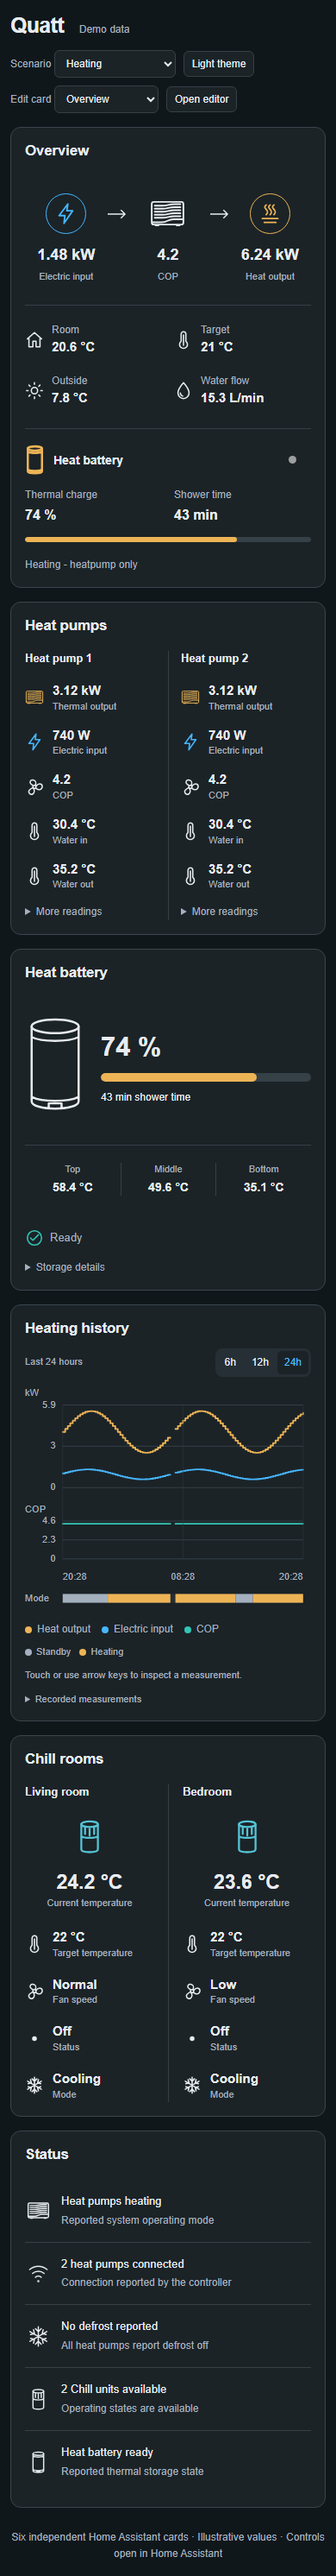
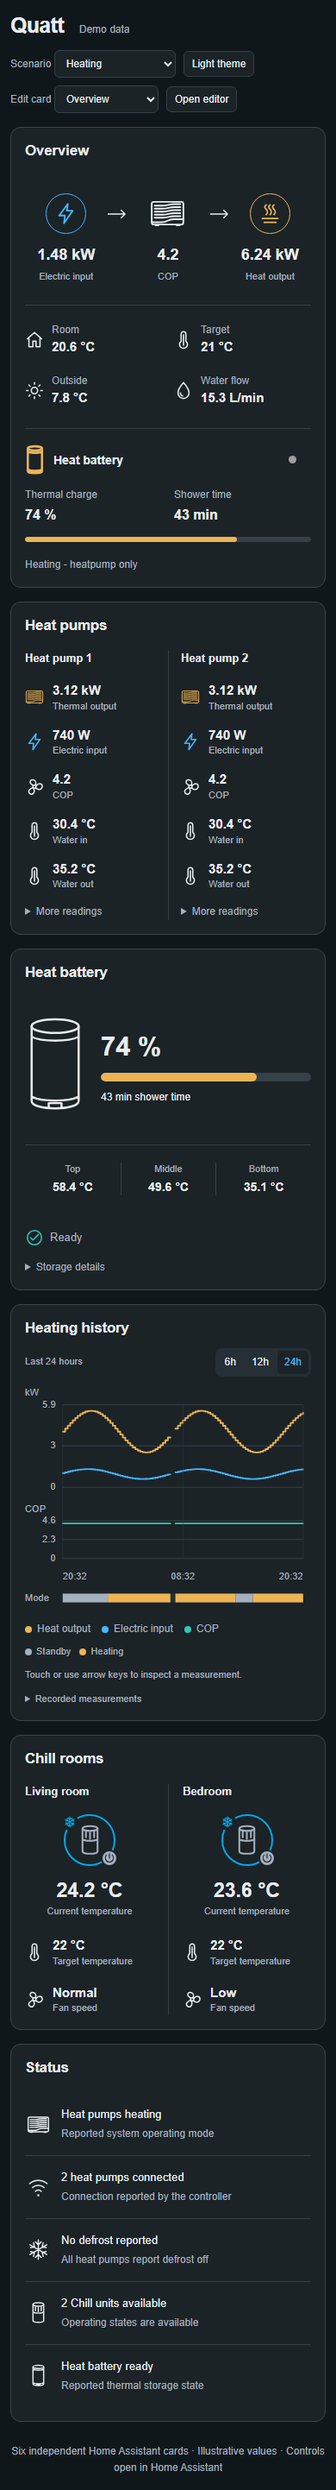
Combine Chill status and mode in the device ring

diff --git a/src/cards/chill-card.ts b/src/cards/chill-card.ts
@@ -1,30 +1,43 @@
 import { css, html, nothing } from 'lit';
 import { BaseCard } from '../base-card';
 import { icon } from '../ui';
+import { chillState } from '../data/chill-state';
 import type { QuattDevice } from '../types';
 export class QuattChillCard extends BaseCard {
   static getStubConfig() { return {type:'custom:quatt-chill-card'}; }
-  getCardSize(){return this.config?6+Math.max(0,Math.ceil(this.snapshot.chills.length/3)-1)*5:6;}
+  getCardSize(){return this.config?5+Math.max(0,Math.ceil(this.snapshot.chills.length/3)-1)*4:5;}
   static styles=[BaseCard.styles,css`
-    ha-card{min-height:410px}.rooms{display:grid;grid-template-columns:repeat(var(--columns,2),minmax(0,1fr));gap:24px 0}.room{min-width:0;border-left:1px solid var(--qc-line);padding:0 16px}.room.row-start{padding-left:0;border-left:0}.room:last-child{padding-right:0}
-    h3{font-size:13px;font-weight:600;margin:0 0 16px;overflow-wrap:anywhere}.summary{text-align:center}.unit-icon{color:var(--qc-cool);display:grid;place-items:center;width:48px;height:52px;margin:0 auto 10px;padding:5px;border:0;border-radius:8px;background:transparent}.unit-icon .icon{width:28px;height:42px;stroke-width:1.3}
+    :host{align-self:start}ha-card{min-height:0}.rooms{display:grid;grid-template-columns:repeat(var(--columns,2),minmax(0,1fr));gap:24px 0}.room{min-width:0;border-left:1px solid var(--qc-line);padding:0 16px}.room.row-start{padding-left:0;border-left:0}.room:last-child{padding-right:0}
+    h3{font-size:13px;font-weight:600;margin:0 0 16px;overflow-wrap:anywhere}.summary{text-align:center}
+    .unit-icon{--ring-color:var(--qc-secondary);color:var(--ring-color);position:relative;display:grid;place-items:center;width:60px;height:60px;margin:0 auto 12px;padding:7px;border:2.5px solid var(--ring-color);border-radius:50%;background:transparent}
+    .unit-icon.cooling{--ring-color:var(--quatt-chill-cooling-color,#00a9ed)}.unit-icon.heating{--ring-color:var(--quatt-chill-heating-color,#e34d59)}
+    .unit-icon>.icon{width:25px;height:38px;stroke-width:1.3}.unit-icon.off>.icon,.unit-icon.idle>.icon,.unit-icon.unknown>.icon{color:var(--qc-secondary)}
+    .icon-badge{position:absolute;display:grid;place-items:center;width:20px;height:20px;border:2px solid var(--ha-card-background,var(--card-background-color,#fff));border-radius:50%;background:var(--ha-card-background,var(--card-background-color,#fff))}
+    .icon-badge .icon{width:14px;height:14px;stroke-width:2}.mode-badge{left:-5px;top:-3px}.status-badge{right:-5px;bottom:-3px;background:var(--ring-color);color:var(--ha-card-background,var(--card-background-color,#fff))}
+    .off .status-badge,.idle .status-badge,.unknown .status-badge{background:var(--qc-secondary)}.offline .status-badge{background:var(--qc-warning)}
+    button.unit-icon:disabled{opacity:1}.icon-description{position:absolute;width:1px;height:1px;overflow:hidden;clip-path:inset(50%);white-space:nowrap}
     button.unit-icon:hover:not(:disabled){background:var(--qc-subtle)}
     .temperature .value{font-size:23px}.temperature>.label{display:block;font-size:11px}.fields{display:grid;gap:17px;margin-top:20px}.warning{margin-top:12px;color:var(--qc-warning);font-size:12px}
     .rooms.stacked,.rooms.compact{grid-template-columns:1fr;gap:0}.stacked .room,.compact .room{padding:16px 0;border-left:0;border-top:1px solid var(--qc-line)}.stacked .room:first-child,.compact .room:first-child{padding-top:0;border-top:0}
     .stacked .fields,.compact .fields{grid-template-columns:repeat(2,minmax(0,1fr))}
-    .compact .temperature .value{font-size:20px}.compact .device-field>.icon{display:none}.compact .fields{grid-template-columns:repeat(4,minmax(0,1fr));gap:8px}
+    .compact .temperature .value{font-size:20px}.compact .device-field>.icon{display:none}.compact .fields{grid-template-columns:repeat(2,minmax(0,1fr));gap:8px}
     .rooms.three .device-field>.icon{display:none}.rooms.three .room{padding:0 9px}.rooms.three .row-start{padding-left:0}.rooms.three .temperature .value{font-size:19px}
     .rooms.single.columns h3{text-align:center}.rooms.single.columns .summary{margin:20px 0 26px}.rooms.single.columns .fields{grid-template-columns:repeat(2,minmax(0,1fr));gap:22px 18px}
     ha-card.single-device{min-height:0}ha-card.custom-fields{min-height:0}.fields:empty{display:none}
     @container(max-width:350px){.room{padding:0 10px}.device-field{gap:8px}.device-field .value{font-size:14px}.device-field .label{font-size:10px}.temperature .value{font-size:20px}}
   `];
   private controlIcon(d:QuattDevice) {
-    if(this.config.show_controls===false)return html`<span class="unit-icon">${icon('chill')}</span>`;
+    const state=chillState(d),showStatus=this.showField('status'),showMode=this.showField('mode');
+    const description=[showStatus?`Status: ${state.statusText}`:'',showMode?`Mode: ${state.modeText}`:''].filter(Boolean).join(' · ');
+    const classes=`unit-icon ${showMode&&state.state!=='offline'?state.setting:'neutral'} ${showStatus?state.state:''}`;
+    const content=html`${icon('chill')}${showMode?html`<span class="icon-badge mode-badge" aria-hidden="true">${icon(state.modeIcon)}</span>`:nothing}${showStatus?html`<span class="icon-badge status-badge" aria-hidden="true">${icon(state.statusIcon)}</span>`:nothing}`;
+    if(this.config.show_controls===false)return html`<span class=${classes} role="img" aria-label=${`${d.name}${description?`: ${description}`:''}`} title=${description}>${content}</span>`;
     const entity=d.climateEntityId&&this.hass.states[d.climateEntityId];
     const available=d.available&&entity&&!['unknown','unavailable'].includes(entity.state);
     const hint=!d.climateEntityId?'Controls require one enabled Chill climate entity.':!available?'Unit unavailable':`Control ${d.name}`;
-    return html`<button class="unit-icon" ?disabled=${!available} aria-label=${`Control ${d.name}`} title=${hint} aria-haspopup="dialog"
-      @click=${()=>this.openControls(d.id)}>${icon('chill')}</button>`;
+    const descriptionId=`chill-state-${d.id}`;
+    return html`<button class=${classes} ?disabled=${!available} aria-label=${`Control ${d.name}`} aria-describedby=${descriptionId} title=${[hint,description].filter(Boolean).join(' · ')} aria-haspopup="dialog"
+      @click=${()=>this.openControls(d.id)}>${content}</button><span class="icon-description" id=${descriptionId}>${description}</span>`;
   }
   private openControls(deviceId:string) {
     const d=this.snapshot.chills.find(device=>device.id===deviceId);
@@ -33,10 +46,10 @@ export class QuattChillCard extends BaseCard {
     this.dispatchEvent(new CustomEvent('hass-more-info',{detail:{entityId:entity.entity_id},bubbles:true,composed:true}));
   }
   private room(d:QuattDevice,index:number,columns:number) {
-    const m=d.metrics,status=m.status?.text||(!d.available?'Unavailable':'Status unavailable');
+    const m=d.metrics;
     return html`<article class=${`room${index%columns===0?' row-start':''}`} aria-label=${d.name}><h3>${d.name}</h3><div class="summary">${this.controlIcon(d)}
       ${this.showField('roomTemperature')?html`<div class="temperature">${this.value(m.roomTemperature,`${d.name} temperature`)}<span class="label">Current temperature</span></div>`:nothing}</div><div class="fields">
-      ${this.selectedField('targetTemperature','Target temperature',m.targetTemperature,'thermometer')}${this.selectedField('fanMode','Fan speed',m.fanMode,'fan')}${this.selectedField('status','Status',{...m.status,value:null,text:status,unit:''},d.available?'dot':'warning')}${this.selectedField('mode','Mode',m.mode,m.mode?.text?.toLowerCase().includes('heat')?'heat':'snow')}
+      ${this.selectedField('targetTemperature','Target temperature',m.targetTemperature,'thermometer')}${this.selectedField('fanMode','Fan speed',m.fanMode,'fan')}
       </div>${this.showField('waterWarning')&&this.on(m.waterWarning)?html`<p class="warning">Water tank needs attention</p>`:nothing}</article>`;
   }
   protected render() {

diff --git a/tests/browser/cards.spec.ts b/tests/browser/cards.spec.ts
@@ -4,6 +4,34 @@ import type {CardConfig,HomeAssistant} from '../../src/types';
 import type {DemoDiagnostics} from '../../src/demo/fixtures';
 type Card=HTMLElement&{hass:HomeAssistant&{__demoDiagnostics:DemoDiagnostics};setConfig(c:CardConfig):void;getCardSize():number;getGridOptions():unknown};
 const names=['overview','heat-pump','heat-battery','history','chill','status'];
+test('Chill ring combines reported status and mode without duplicate rows',async({page})=>{
+ await open(page);const card=page.locator('quatt-chill-card'),control=card.getByRole('button',{name:'Control Living room',exact:true});
+ await expect(control).toHaveClass(/cooling off/);
+ await expect(control).toHaveAccessibleDescription('Status: Off · Mode: Cooling');
+ await expect(card.locator('.fields .device-field')).toHaveCount(4);
+ await expect(control.locator('.mode-badge .icon-snow')).toHaveCount(1);
+ await expect(control.locator('.status-badge .icon-power')).toHaveCount(1);
+ await card.evaluate(e=>{const c=e as Card;const states={...c.hass.states};for(const [id,s] of Object.entries(states))if(id.includes('demo-chill-uuid-1')){if(id.endsWith('_mode'))states[id]={...s,state:'Heating'};if(id.endsWith('_status'))states[id]={...s,state:'On'};}c.hass={...c.hass,states};});
+ await expect(control).toHaveClass(/heating on/);
+ await expect(control).toHaveAccessibleDescription('Status: On · Mode: Heating');
+ await expect(control.locator('.mode-badge .icon-heat')).toHaveCount(1);
+ await expect(control.locator('.status-badge .icon-tick')).toHaveCount(1);
+ for(const theme of ['light','dark'] as const)for(const width of [1440,390]){
+  await page.setViewportSize({width,height:1000});await page.evaluate(theme=>window.demo.setTheme(theme),theme);
+  await card.screenshot({path:`.impeccable/review/chill-ring-${width}-${theme}.png`});
+ }
+ await page.evaluate(()=>window.demo.showEditor('chill'));const editor=page.locator('quatt-card-editor');
+ await editor.getByText('Displayed fields',{exact:true}).click();
+ await editor.getByRole('checkbox',{name:'Operating mode',exact:true}).uncheck();
+ await expect(card.locator('.mode-badge')).toHaveCount(0);await expect(control).toHaveClass(/neutral/);
+ await editor.getByRole('checkbox',{name:'Operating status',exact:true}).uncheck();
+ await expect(card.locator('.status-badge')).toHaveCount(0);
+ await editor.getByRole('button',{name:'Reset displayed fields',exact:true}).click();
+ await expect(card.locator('.mode-badge')).toHaveCount(2);await expect(card.locator('.status-badge')).toHaveCount(2);
+ await page.evaluate(()=>window.demo.setConfig('chill',{show_controls:false}));
+ await expect(card.getByRole('img',{name:/Living room: Status: On · Mode: Heating/})).toBeVisible();
+});
+
 test('Chill control icons are centered, touch-sized, and remain available when temperature is hidden',async({page})=>{
  await open(page);const card=page.locator('quatt-chill-card');
  for(const width of [1440,390])for(const layout of ['columns','stacked','compact'] as const){
@@ -167,7 +195,7 @@ test('editors emit config changes for titles, devices, periods and overrides',as
  expect(await page.evaluate(()=>window.demo.getConfig('overview')?.entities?.electricPower)).toBe('sensor.override');await editor.getByLabel('Electrical input',{exact:true}).fill('');await editor.getByLabel('Electrical input',{exact:true}).press('Tab');expect(await page.evaluate(()=>window.demo.getConfig('overview')?.entities?.electricPower)).toBeUndefined();
 });
 test('offline, partial, standby, defrost and cooling states remain truthful',async({page})=>{
- await open(page);await page.evaluate(()=>window.demo.setScenario('offline'));await expect(page.locator('quatt-status-card').getByText('Heat pump 2 unavailable',{exact:true})).toBeVisible();await expect(page.locator('quatt-chill-card').getByText('Offline',{exact:true})).toBeVisible();
+ await open(page);await page.evaluate(()=>window.demo.setScenario('offline'));await expect(page.locator('quatt-status-card').getByText('Heat pump 2 unavailable',{exact:true})).toBeVisible();await expect(page.locator('quatt-chill-card').getByRole('button',{name:'Control Bedroom',exact:true})).toHaveAccessibleDescription('Status: Unavailable · Mode: Cooling');
  await page.evaluate(()=>window.demo.setScenario('partial'));await expect(page.locator('quatt-heat-battery-card').getByRole('meter')).toHaveCount(0);await expect(page.locator('quatt-heat-battery-card').getByText('43 min',{exact:true})).toBeVisible();await expect(page.locator('quatt-status-card').getByText('Bedroom water tank warning',{exact:true})).toBeVisible();
  await page.evaluate(()=>window.demo.setScenario('idle'));await expect(page.locator('quatt-overview-card').getByText('Standby',{exact:true})).toBeVisible();
  await page.evaluate(()=>window.demo.setScenario('defrost'));await expect(page.locator('quatt-status-card').getByText('Heat pump 1 is defrosting',{exact:true})).toBeVisible();await expect(page.locator('quatt-heat-pump-card').getByText('-1.5 kW',{exact:true})).toBeVisible();

diff --git a/tests/data/chill-state.test.ts b/tests/data/chill-state.test.ts
@@ -1,0 +1,25 @@
+import {describe,it,expect} from 'vitest';
+import {chillState} from '../../src/data/chill-state';
+import type {QuattDevice} from '../../src/types';
+
+function device(status?:string,mode?:string,available=true):QuattDevice {
+  return {id:'test',name:'Room',kind:'chill',available,metrics:{
+    status:{value:null,text:status??null,unit:''},mode:{value:null,text:mode??null,unit:''},
+  }};
+}
+describe('Chill icon state',()=>{
+  it('keeps selected cooling/heating separate from off and standby status',()=>{
+    expect(chillState(device('Off','Cooling'))).toMatchObject({state:'off',setting:'cooling',statusIcon:'power',modeIcon:'snow'});
+    expect(chillState(device('Standby','Heating'))).toMatchObject({state:'idle',setting:'heating',statusIcon:'clock',modeIcon:'heat'});
+    expect(chillState(device('On','Heating'))).toMatchObject({state:'on',setting:'heating',statusIcon:'tick'});
+  });
+  it('never fabricates an active status or a mode from missing or unfamiliar reports',()=>{
+    expect(chillState(device(undefined,'Cooling'))).toMatchObject({state:'unknown',setting:'cooling',statusIcon:'question'});
+    expect(chillState(device('Heating'))).toMatchObject({state:'on',setting:'neutral',modeIcon:'question'});
+    expect(chillState(device('Starting','Dry'))).toMatchObject({state:'unknown',setting:'neutral',statusText:'Starting',modeText:'Dry'});
+  });
+  it('gives unavailable telemetry precedence over cached active reports',()=>{
+    expect(chillState(device('On','Cooling',false))).toMatchObject({state:'offline',statusIcon:'warning',statusText:'Unavailable'});
+    expect(chillState(device('Offline','Heating'))).toMatchObject({state:'offline'});
+  });
+});

diff --git a/src/data/chill-state.ts b/src/data/chill-state.ts
@@ -1,0 +1,24 @@
+import type { QuattDevice } from '../types';
+
+/** Mode is a setting; it never establishes whether the unit is running. */
+export function chillState(device: QuattDevice) {
+  const status = device.metrics.status?.text?.trim();
+  const mode = device.metrics.mode?.text?.trim();
+  const normalizedStatus = status?.toLowerCase();
+  const normalizedMode = mode?.toLowerCase();
+  const offline = !device.available || normalizedStatus === 'offline';
+  const state = offline ? 'offline'
+    : normalizedStatus === 'off' ? 'off'
+    : ['idle', 'standby'].includes(normalizedStatus || '') ? 'idle'
+    : ['on', 'running', 'cooling', 'heating'].includes(normalizedStatus || '') ? 'on' : 'unknown';
+  const setting = ['cool', 'cooling'].includes(normalizedMode || '') ? 'cooling'
+    : ['heat', 'heating'].includes(normalizedMode || '') ? 'heating' : 'neutral';
+  return {
+    state, setting,
+    statusText: offline ? 'Unavailable' : status || 'Status unavailable',
+    modeText: mode || 'Mode unavailable',
+    statusIcon: state === 'offline' ? 'warning' : state === 'off' ? 'power'
+      : state === 'idle' ? 'clock' : state === 'on' ? 'tick' : 'question',
+    modeIcon: setting === 'cooling' ? 'snow' : setting === 'heating' ? 'heat' : 'question',
+  };
+}

diff --git a/src/ui.ts b/src/ui.ts
@@ -61,6 +61,9 @@ export function icon(name: string) {
   const aliases:Record<string,string>={'mdi:heat-pump':'pump','mdi:lan-disconnect':'warning','mdi:lan-connect':'connection','mdi:volume-low':'info','mdi:snowflake-melt':'snow','mdi:speedometer-slow':'shield','mdi:alert-circle-outline':'warning','mdi:water-alert-outline':'water','mdi:battery-charging':'tank','mdi:shower':'water','mdi:information-outline':'info'};
   name=aliases[name]||name;
   const paths: Record<string, unknown> = {
+    power: svg`<path d="M12 3v9M6.3 5.8a8 8 0 1 0 11.4 0"/>`,
+    tick: svg`<path d="m5 12 4 4L19 6"/>`,
+    question: svg`<path d="M8 8a4 4 0 1 1 7 2.7c-2 1.3-3 1.8-3 4M12 19v.1"/>`,
     controls: svg`<path d="M4 7h4m4 0h8M4 17h8m4 0h4"/><circle cx="10" cy="7" r="2"/><circle cx="14" cy="17" r="2"/>`,
     pump: svg`<rect x="1.5" y="4.5" width="21" height="15" rx="1.4"/><path d="M3.5 7h5c4 0 4-1 8-1h4M3.5 9h5c4 0 4-1 8-1h4M3.5 11h5c4 0 4-1 8-1h4M3.5 13h5c4 0 4-1 8-1h4M3.5 15h5c4 0 4-1 8-1h4M2 18h6c4 0 4-2 8-2h6M4 20h2m12 0h2"/>`,
     chill: svg`<ellipse cx="12" cy="3.5" rx="5.5" ry="1.8"/><path d="M6.5 3.5v16.7c0 2.4 11 2.4 11 0V3.5M6.5 11.5c2 1.4 9 1.4 11 0M9 6v4m3-3.5V11m3-5v4"/>`,

diff --git a/src/editor.ts b/src/editor.ts
@@ -221,7 +221,7 @@ export class QuattCardEditor extends LitElement {
         </select>
       </label>` : nothing}
       <details><summary>Displayed fields</summary>
-        <p class="help">Choose which readings to show. Missing optional equipment is omitted. Hiding a field does not change the equipment.</p>
+        <p class="help">Choose which readings to show. Missing optional equipment is omitted. Hiding a field does not change the equipment.</p>${isChill?html`<p class="help">Operating status and mode appear on the device icon. Blue means cooling, red means heating. Tap the icon for controls.</p>`:nothing}
         <div class="field-options">${(cardFields[config.type]||[]).map(field=>html`<label class="field-option"><input type="checkbox" aria-label=${field.label} .checked=${fieldVisible(config,field.key)} @change=${(event:Event)=>this.toggleField(field.key,(event.target as HTMLInputElement).checked)} /><span>${field.label}</span></label>`)}</div>
         <button class="reset-fields" @click=${()=>this.resetFields()}>Reset displayed fields</button>
       </details>

diff --git a/src/index.ts b/src/index.ts
@@ -21,4 +21,4 @@ for(const [type,element,name,description] of cards) {
   if(!window.customCards.some(card=>card.type===type)) window.customCards.push({type,name,description,preview:true});
 }
 if(!customElements.get('quatt-card-editor')) customElements.define('quatt-card-editor',QuattCardEditor);
-console.info('QUATT CARDS 0.4.4 · Heating insights and Chill controls');
+console.info('QUATT CARDS 0.5.0 · Heating insights and Chill controls');

diff --git a/README.md b/README.md
@@ -17,7 +17,7 @@ Compact Home Assistant dashboard cards for the [Quatt integration by marcoboers]
 
 All cards have a visual configuration editor, card-picker preview, YAML configuration, and Sections/Masonry sizing. Heat pump and Chill collections support three styles: **C · Columns** by default, **A · Stacked**, and **B · Compact**. Columns uses at most three units per row; further units wrap onto new rows. A single visible unit uses two reading columns across the card.
 
-Interactions inspect chart readings or open Home Assistant sensor details. Each Chill unit has a centered, clickable **Chill icon** that opens its native Home Assistant climate panel. Use that panel to change target temperature, heating/cooling/off mode, and fan speed. Opening it does not change the unit; commands are handled by Home Assistant when you use its controls. The other cards remain display-only.
+Interactions inspect chart readings or open Home Assistant sensor details. Each Chill unit has a centered, clickable **Chill status ring** that opens its native Home Assistant climate panel. Use that panel to change target temperature, heating/cooling/off mode, and fan speed. Opening it does not change the unit; commands are handled by Home Assistant when you use its controls. The other cards remain display-only.
 
 ![The six Quatt cards in a light Home Assistant theme, using synthetic readings](docs/screenshots/desktop-light.png)
 
@@ -48,14 +48,14 @@ HACS normally registers the module automatically. If your resources are managed 
 
 1. Build the asset with `npm ci` and `npm run build`.
 2. Copy `dist/quatt-cards.js` to `/config/www/quatt-cards.js` on Home Assistant.
-3. Add a dashboard resource with URL `/local/quatt-cards.js?v=0.4.4` and resource type **JavaScript Module**.
+3. Add a dashboard resource with URL `/local/quatt-cards.js?v=0.5.0` and resource type **JavaScript Module**.
 4. Reload the browser. In **Add card**, search for **Quatt**.
 
 For dashboards with YAML-managed resources:
 
 ```yaml
 resources:
-  - url: /local/quatt-cards.js?v=0.4.4
+  - url: /local/quatt-cards.js?v=0.5.0
     type: module
 ```
 
@@ -164,6 +164,8 @@ Controls are discovered from each device’s enabled Quatt climate entity, indep
 ## Choose displayed fields
 
 Open the card editor and expand **Displayed fields** to show or hide readings, history series, or status categories. **Reset displayed fields** restores that card’s defaults and preserves other settings. Selection applies to every visible device in a collection card. Hidden readings do not leave empty columns. Field selection affects presentation only; it does not change hardware or entity settings.
+
+Chill combines status and mode in its device icon, removing the separate text rows. The ring is blue for selected cooling mode and red for heating; a snowflake or heat symbol also identifies the mode. A check means reported On/running, a power symbol means Off, a clock means idle/standby, and a question mark means unknown. Unavailable units use a neutral ring and warning badge. The ring shows the selected mode even while Off; it does not imply active cooling or heating. Tooltips and accessible descriptions retain the reported values. **Operating status** and **Operating mode** under Displayed fields toggle the icon indicators. Theme authors can override `--quatt-chill-cooling-color` (default `#00a9ed`) and `--quatt-chill-heating-color` (default `#e34d59`).
 
 Overview includes a heat-battery summary when that equipment is discovered: thermal charge with a progress bar, shower time, and operating status. In the Detailed layout, its header status is a small dot: green for On and gray for Off, unavailable, or other states. Hover or inspect the accessible label for the reported status; selecting the dot opens sensor details. The Heat battery · status field controls its visibility. Tank temperatures, charging/hot-water indicators, charger input, and water pressure can be enabled separately. Missing charge never becomes a fabricated percentage.
 

diff --git a/docs/validation.md b/docs/validation.md
@@ -3,8 +3,8 @@
 Local checks on 9 October 2026 passed with Node.js 24:
 
 - TypeScript checking and Vite production build.
-- 46 unit tests covering discovery, unit conversion, source priority, status, history normalization and shared registry subscriptions.
-- 28 Chromium browser tests covering all six cards and their editors, light/dark themes, desktop (1440px), tablet (820px), phone (390px), keyboard and touch inspection, live updates during inspection, missing/offline telemetry, read-only sensor details, wrapping after three units, and single-unit installation/selection layouts in all three styles. Geometry assertions also check centered heat-battery temperatures and status icons.
+- 49 unit tests covering discovery, unit conversion, source priority, status, history normalization and shared registry subscriptions.
+- 29 Chromium browser tests covering all six cards and their editors, light/dark themes, desktop (1440px), tablet (820px), phone (390px), keyboard and touch inspection, live updates during inspection, missing/offline telemetry, read-only sensor details, wrapping after three units, and single-unit installation/selection layouts in all three styles. Geometry assertions also check centered heat-battery temperatures and status icons.
 
 The browser suite renders actual Lit components using synthetic Home Assistant fixtures. It checks card overflow and page errors. Shared requests and subscription cleanup are tested. Screenshots in `docs/screenshots` come from that fixture preview, not a household dashboard.
 
@@ -21,3 +21,5 @@ Chill control-access tests cover renamed and indexed legacy climate entities, di
 Field-selection tests cover defaults, malformed YAML, every visual editor, reset without losing unrelated settings, selected temperature reflow, COP-only/mode-only history, heat-battery overview readings, missing equipment, and unavailable charge. Field checkboxes are included in responsive editor checks.
 
 The minimal Overview layout is tested at 1440px, 820px, and 390px in both themes, including editor switching, preserved field choices, a four-field configuration, missing battery equipment, and unavailable charge.
+
+Chill ring checks cover independent mode/status reports, missing and unfamiliar states, offline precedence, live state changes, field toggles, accessible descriptions, display-only indicators, and cooling/heating rendering in both themes.

diff --git a/DESIGN.md b/DESIGN.md
@@ -197,9 +197,9 @@ The configuration editor uses native inputs and selects with theme surface/text,
 
 Not canonized: the demo wordmark's system-font display styling is preview scaffolding, not a card display-font rule; unresolved reproduction drift and unpassed validation gates are not evidence of a reusable design decision.
 
-### Chill control access (v0.4.1)
+### Chill control access (v0.5.0)
 
-Each unit has a centered 48px by 52px equipment-icon button above its current temperature. The 28px by 42px outline uses the cooling accent, a transparent surface, an 8px corner radius, subtle hover fill, and the shared keyboard focus treatment. Activating it opens that unit’s native climate panel. There is no separate footer action or separator. Missing targets and unavailable units disable the icon with an explanatory tooltip. The icon remains available when the temperature field is hidden; disabling control access in the visual editor leaves a decorative icon. This is the explicit exception to the original display-only scope.
+Each unit has a centered 60px circular equipment-icon control above its temperature, with a 2.5px mode ring. Cooling uses bright blue (#00a9ed), heating uses red (#e34d59); both have dedicated theme overrides. A 20px mode-symbol badge sits at the upper left and a 20px status badge at the lower right. The equipment outline is 25px by 38px. Off/idle/unknown mute the equipment outline while the ring continues to show the selected mode; unavailable units use neutral colour and a warning. The 14px badge symbols distinguish modes and states without relying on colour. Status and Mode text rows are removed. Displayed fields controls these indicators. Native controls, tooltip explanations and accessible state descriptions remain available; display-only mode retains the indicators. There is no animation or separate controls footer.
 
 ### Overview storage and field selection (v0.3.0)
 

diff --git a/docs/data-contract.md b/docs/data-contract.md
@@ -65,3 +65,5 @@ Since v0.2.0, an unambiguous enabled Quatt climate source with exact `chills` or
 ## Displayed fields and Overview storage
 
 `fields` is a presentation-only boolean map validated against a per-card catalog. Omitted keys preserve defaults. Overview storage reads `snapshot.heatBattery.metrics` and `snapshot.heatCharger.metrics`, not the heat-pump system metrics. It does not add charger power to system electrical input. No hardware or incomplete charge value is replaced with synthetic data. History requests include only selected series.
+
+The Chill ring reads mode and status independently from their discovered telemetry. Cooling/heating colour expresses the selected mode, not inferred activity. Known On/running/cooling/heating reports use a check, Off uses power, idle/standby uses a clock, and unfamiliar/missing status uses a question mark. Reported values remain in accessible descriptions and tooltips. Offline availability takes precedence over cached active status.

diff --git a/CHANGELOG.md b/CHANGELOG.md
@@ -1,5 +1,12 @@
 # Changelog
 
+## 0.5.0
+
+- Integrate Chill status and mode into the clickable device ring, replacing both text rows.
+- Use bright blue for cooling and red for heating, with mode symbols and a separate on/off/idle/unknown status badge.
+- Keep selected mode distinct from operating status; unavailable units remain neutral with a warning.
+- Preserve keyboard access, native controls, display-only icons and configurable indicators. Reduce card sizing and keep the compact layout at two reading columns.
+
 ## 0.4.4
 
 - Use a neutral gray dot for heat-battery Off status instead of red, so Off does not suggest a fault. On remains green.
